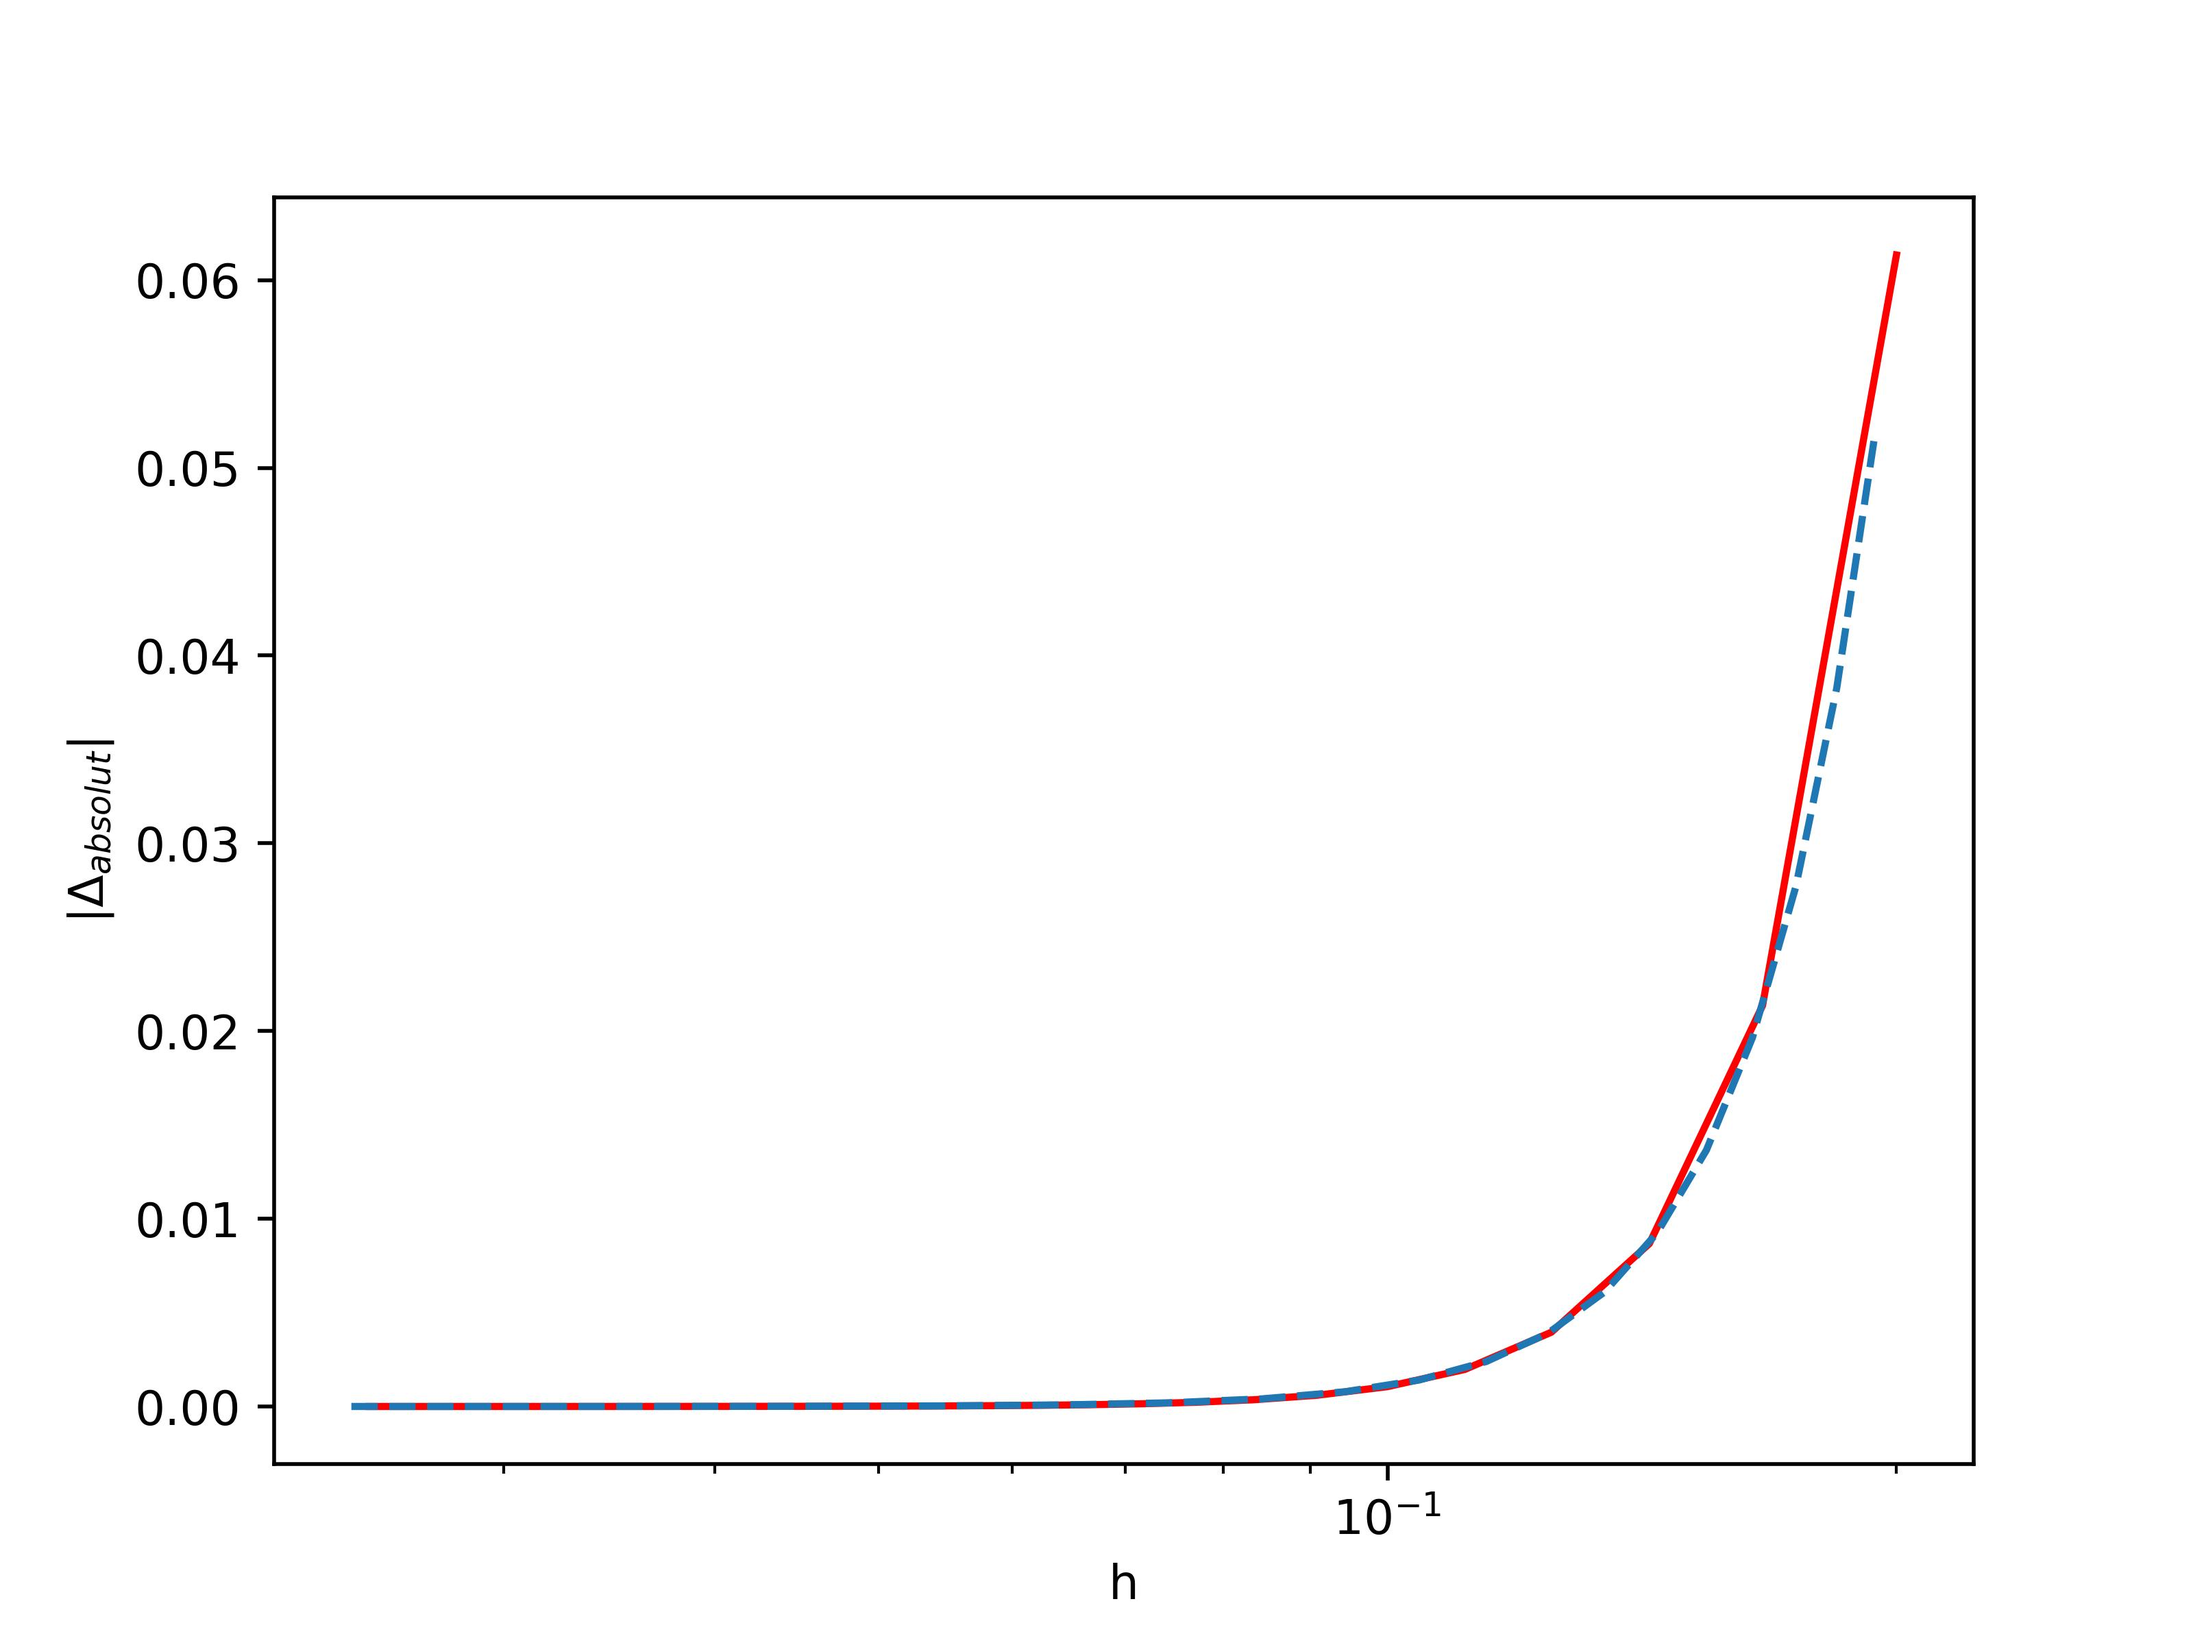
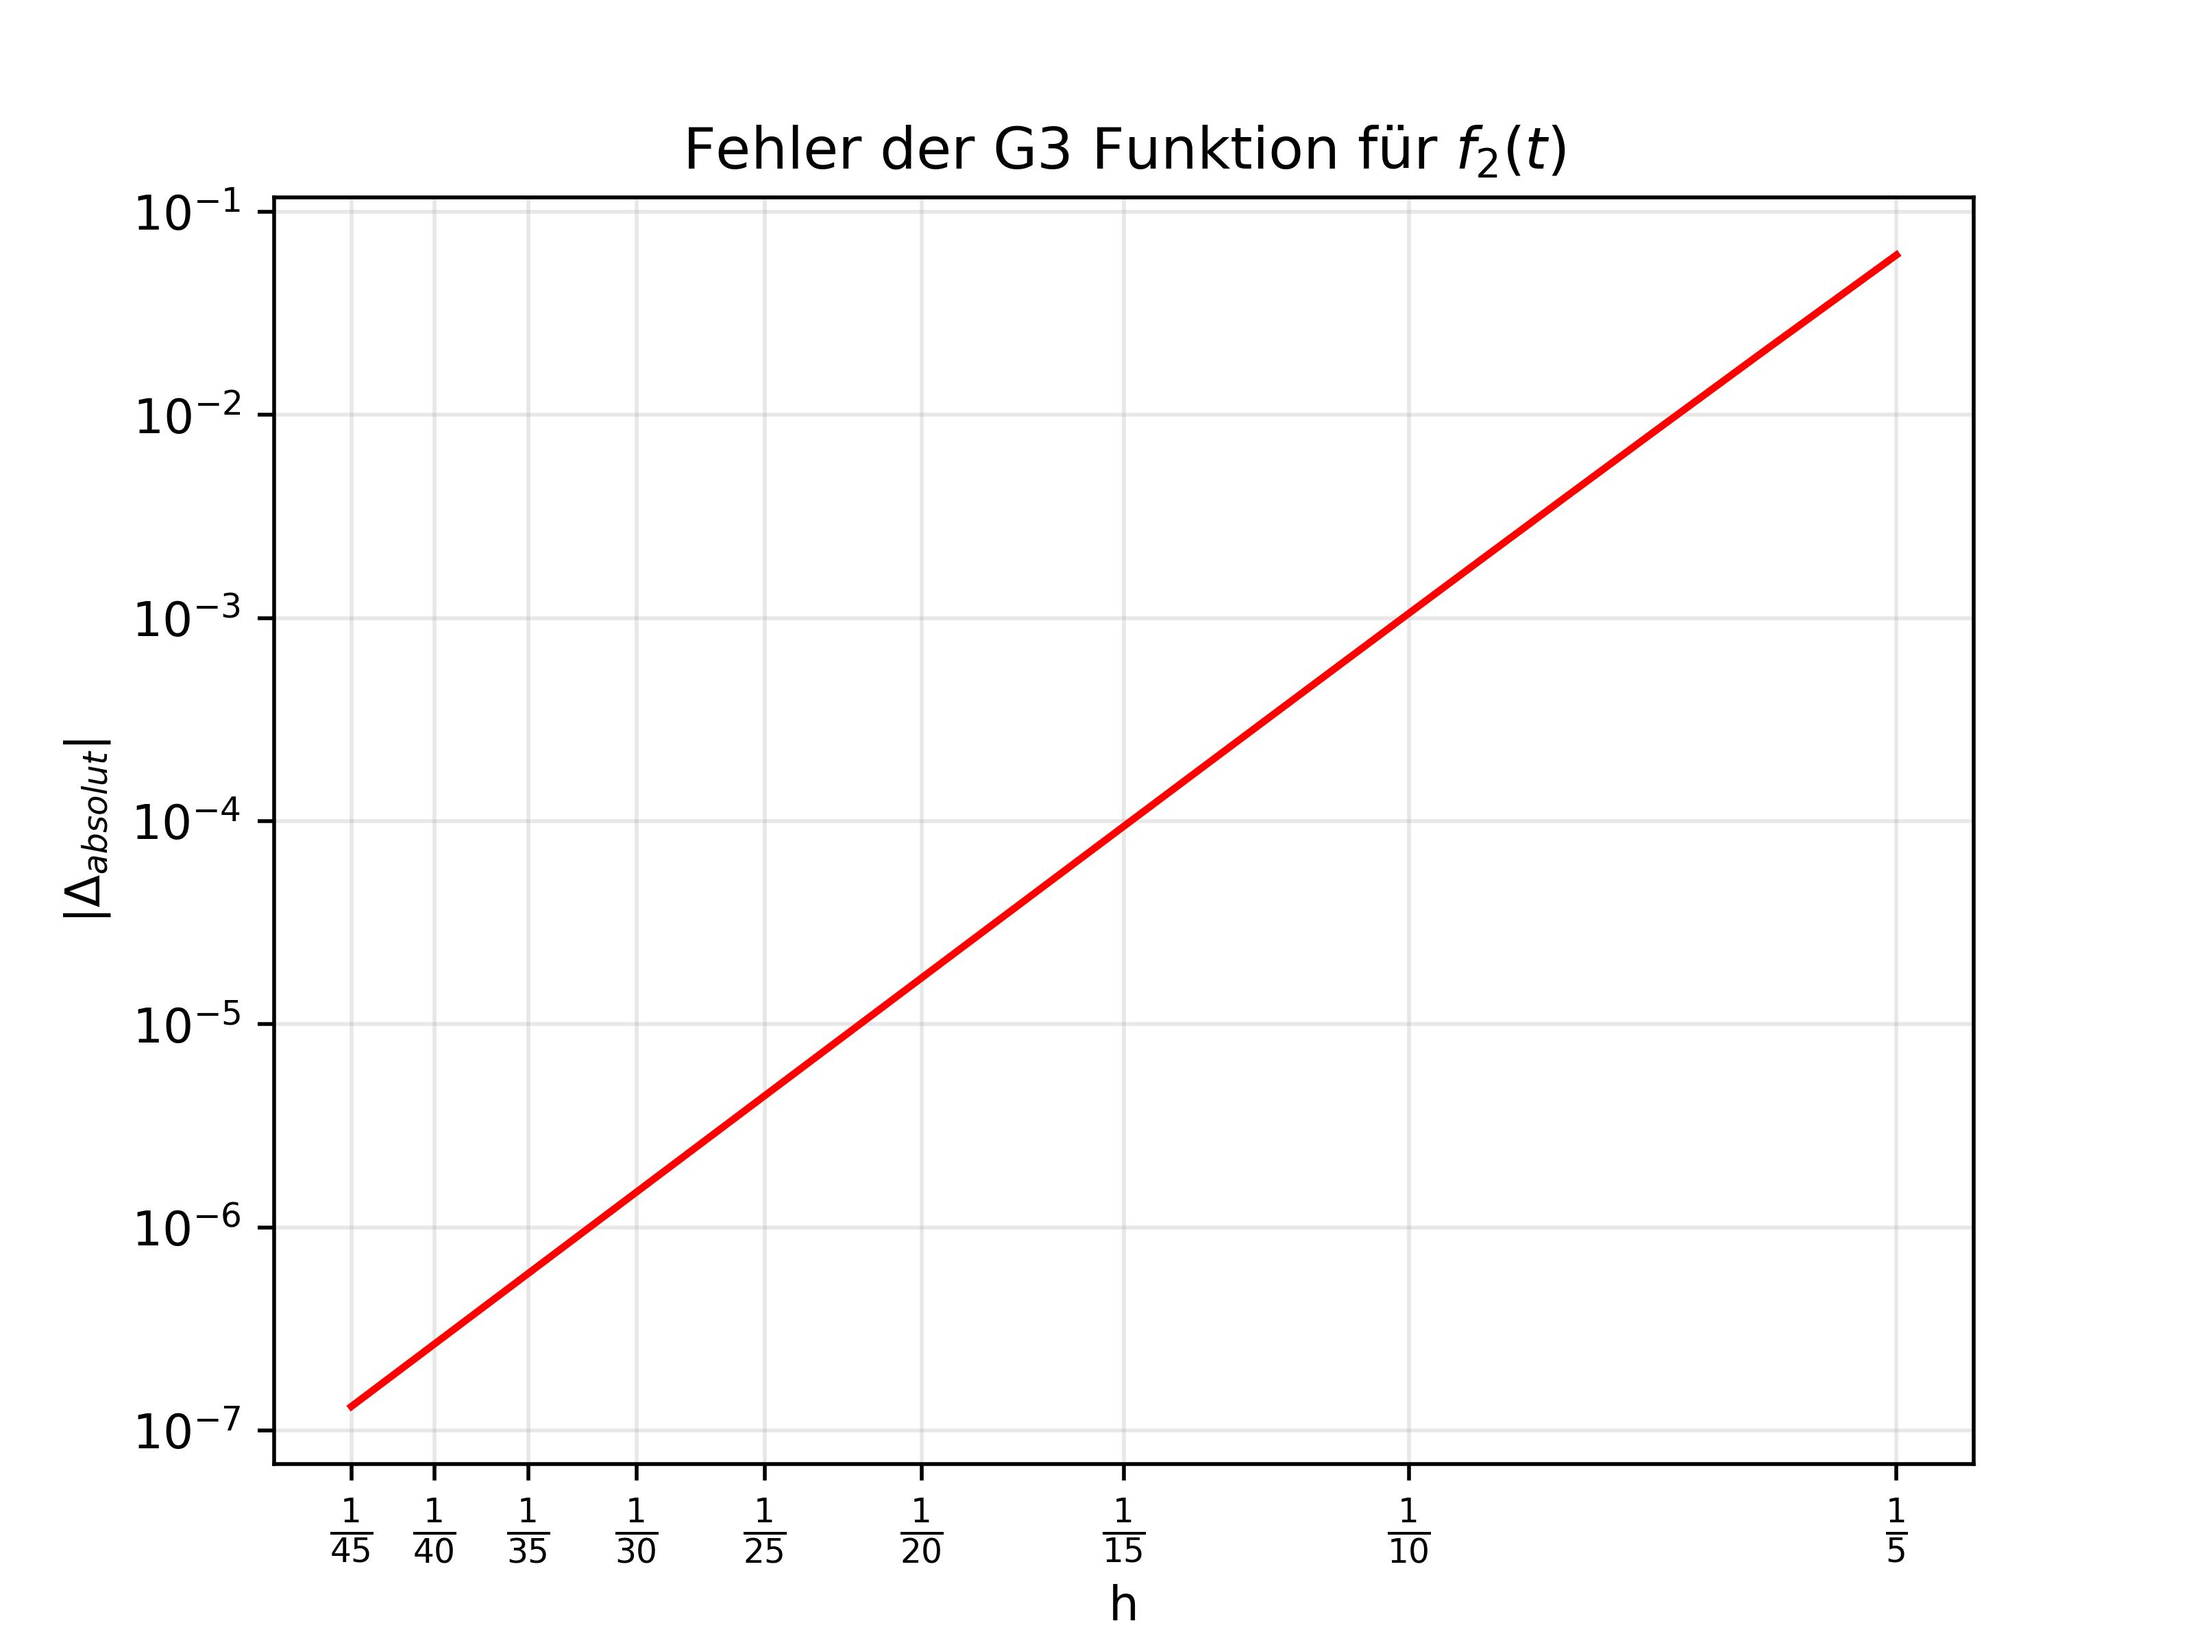
Final Version

diff --git a/projekt2module.py b/projekt2module.py
@@ -2,9 +2,11 @@
 import numpy as np
 from numpy import exp
 import matplotlib.pyplot as plt
-from scipy.optimize import curve_fit
 import openpyxl
 import pandas as pd
+from matplotlib.ticker import FuncFormatter
+from matplotlib.ticker import NullLocator
+
 
 def potfunc(x, c, p):
     return c*(x**p)
@@ -31,7 +33,7 @@ def G5(h,funktion):
             summe += h/2*funktion(h/2*x5[j]+schritt[i]+h/2)*a5[j]
     return summe
 
-def plot(Testfunktion,nmin,nmax,Vergleichsintegralwert,G_Wert=3,log=True,name=False):
+def plot(Testfunktion,nmin,nmax,Vergleichsintegralwert,G_Wert=3,log=True,name=False, plottitle=""):
     tf,vgl = Testfunktion, Vergleichsintegralwert
 
     # Create a new Excel workbook
@@ -51,7 +53,7 @@ def plot(Testfunktion,nmin,nmax,Vergleichsintegralwert,G_Wert=3,log=True,name=Fa
             val.append(value)
             
         elif G_Wert==5:
-            value = G3(1/(i+1),tf)
+            value = G5(1/(i+1),tf)
             error = value-vgl
             err.append(error)
             val.append(value)
@@ -59,30 +61,52 @@ def plot(Testfunktion,nmin,nmax,Vergleichsintegralwert,G_Wert=3,log=True,name=Fa
             print("Fehlermeldung")
             break
 
-    params, covariance = curve_fit(potfunc, h, np.abs(err))
-    c_fit, p_fit = params
-    print(f"Angepasste Parameter: c = {c_fit}, p = {p_fit}")
-
     h.reverse()
     val.reverse()
     err.reverse()
 
     for i in range(0, nmax-nmin):
-        print(i)
         sheet.append([h[i], val[i], vgl, err[i]])
 
     for cell in sheet['B']:
         cell.number_format = '0.000000000000000E+00'
     sheet.column_dimensions['B'].width = 24
 
-    plt.figure(dpi=500)
-    plt.xlabel("h")
-    plt.ylabel(r"|$\Delta_{absolut}$|")
-    plt.plot(h,np.abs(err),"-r")
-    plt.plot(np.arange(1/(1+nmax),1/(1+nmin), 0.01),potfunc(np.arange(1/(1+nmax),1/(1+nmin), 0.01), c_fit, p_fit), "--")
+    fig, ax = plt.subplots()
+
+    # Create the plot
+    fig, ax = plt.subplots(dpi=500)
+    ax.set_title(plottitle)
+    ax.set_xlabel("h")
+    ax.set_ylabel(r"|$\Delta_{absolut}$|")
+    ax.plot(h, np.abs(err), "-r")
 
     if log:
-        plt.xscale("log")
+        ax.set_xscale("log")
+        ax.set_yscale("log")
+
+        # Automatische x-Ticks deaktivieren
+        ax.minorticks_off()
+
+        x1,x2,x3,x4 = [],[],[],[]
+
+        schrittweite = 5
+        for i in range(nmin,nmax):
+            x1.append(1/(i+1))
+            if int((i+1)/schrittweite)==(i+1)/schrittweite:
+                x2.append(i+1)
+                x4.append(1/(i+1))
+        x1 = np.array(x1)
+        x2 = np.array(x2)
+        for i in range(len(x2)):
+            x3.append(r"$\frac{1}{"+str(x2[i])+ "}$")
+
+        
+
+        ax.set_xticks(x4, labels=x3)
+
+        ax.grid(alpha=0.3)
+
     
     if name:
         plotsave = 'images/' + name + '.jpg'

diff --git a/projekt-2-main.py b/projekt-2-main.py
@@ -10,38 +10,27 @@ def tf2(x):
 vgl2 = 1/10*(np.exp(10)-1)
 
 def tf3(x):
-    return (x**2)
-vgl3 = 1/3
+    return (x**5)
+vgl3 = 1/6
 
 def tf4(x):
-    return (1/(1+x**2))
-vgl4 = np.arctan(1)
+    return(np.sin(1000*np.pi*x))
+vgl4=0
 
 def tf5(x):
-    return (np.log(x+1)/(x**2+1))
-vgl5 = 1/8*np.pi*np.log(2)
-
-def tf6(x):
-    return(np.sin(1000*np.pi*x))
-vgl6=0
-
-def tf7(x):
     return (1/(0.01*np.sqrt(2*np.pi))*np.exp(-1/2*((x-0.5)/0.01)**2))
-vgl7=1
+vgl5=1
 
-plot(tf1,4,40,vgl1,name="G3-tf1")
-#plot(tf2,4,40,vgl2,name="G3-tf2")
-#plot(tf3,0,40,vgl3,name="G3-tf3")
-#plot(tf4,4,40,vgl4,name="G3-tf4")
-#plot(tf5,0,40,vgl5,name="G3-tf5")
-#plot(tf6,4,45,vgl6,name="G3-tf6")
-#plot(tf7,4,45,vgl7,name="G3-tf7")
+#plot(tf1,4,40,vgl1, G_Wert=3, name="G3-tf1", plottitle="Fehler der G3 Funktion für "+r"$f_1(t)$")
+#plot(tf2,4,45,vgl2, G_Wert=3, name="G3-tf2", plottitle="Fehler der G3 Funktion für "+r"$f_2(t)$")
+#plot(tf4,4,35,vgl4, G_Wert=3, name="G3-tf4", plottitle="Fehler der G3 Funktion für "+r"$f_4(t)$")
+#plot(tf5,4,40,vgl5, G_Wert=3, name="G3-tf5", plottitle="Fehler der G3 Funktion für "+r"$f_5(t)$")
 
-#plot(tf1,0,40,vgl1,G_Wert= 5,name="G5-tf1")
-#plot(tf2,0,40,vgl2,G_Wert= 5,name="G5-tf2")
-#plot(tf3,0,40,vgl3,G_Wert= 5,name="G5-tf3")
-#plot(tf4,4,40,vgl4,G_Wert= 5,name="G5-tf4")
-#plot(tf5,0,40,vgl5,G_Wert= 5,name="G5-tf5")
-#plot(tf6,4,45,vgl6,G_Wert= 5,name="G5-tf6")
-#plot(tf7,4,45,vgl7,G_Wert= 5,name="G5-tf7")
+
+
+
+#plot(tf1,0,20,vgl1, G_Wert=5, name="G5-tf1", plottitle="Fehler der G5 Funktion für "+r"$f_1(t)$")
+plot(tf2,4,18,vgl2, G_Wert=5, name="G5-tf2", plottitle="Fehler der G5 Funktion für "+r"$f_2(t)$")
+#plot(tf5,4,40,vgl5, G_Wert=5, name="G5-tf5", plottitle="Fehler der G5 Funktion für "+r"$f_5(t)$")
+
 

diff --git a/function.py b/function.py
@@ -1,10 +1,26 @@
-import numpy as np
-from numpy import exp
 import matplotlib.pyplot as plt
+import numpy as np
+from matplotlib.ticker import FuncFormatter
+from fractions import Fraction
 
-def tf7(x):
-    return (1/(0.01*np.sqrt(2*np.pi))*np.exp(-1/2*((x-0.5)/0.01)**2))
+# Sample data
+x = np.linspace(0, 1, 100)
+y = np.sin(2 * np.pi * x)
 
-plt.plot(np.arange(0, 1, 0.0001), tf7(np.arange(0, 1, 0.0001)))
+# Function to format x-ticks as fractions
+def fraction_formatter(x, pos):
+    frac = Fraction(x).limit_denominator()
+    return f'{frac}'
+
+# Create the plot
+fig, ax = plt.subplots()
+ax.plot(x, y)
+
+# Apply the formatter to the x-axis
+formatter = FuncFormatter(fraction_formatter)
+ax.xaxis.set_major_formatter(formatter)
+
+# Adjust the ticks location (optional)
+ax.set_xticks(np.linspace(0, 1, 11))
 
 plt.show()
